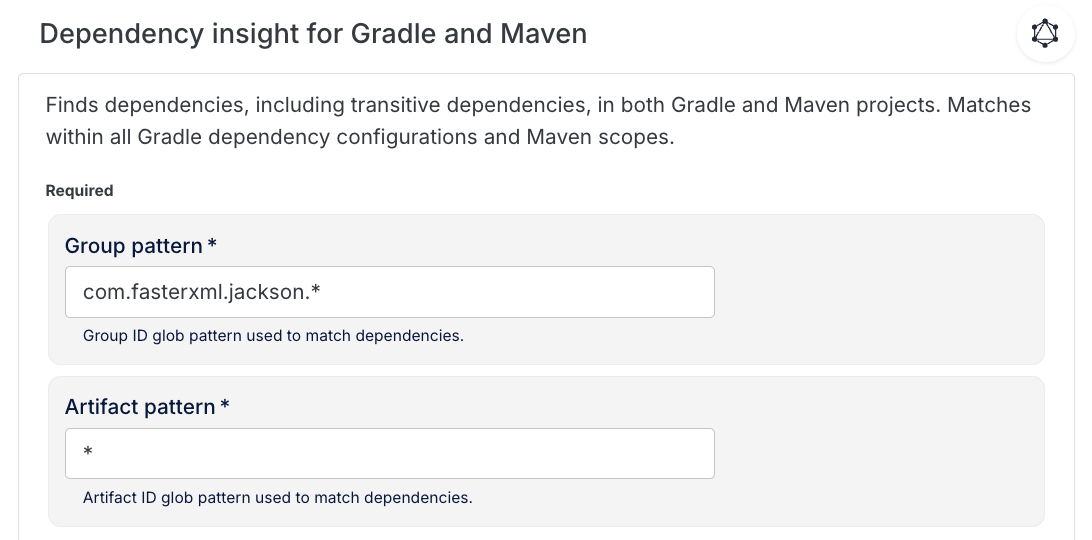
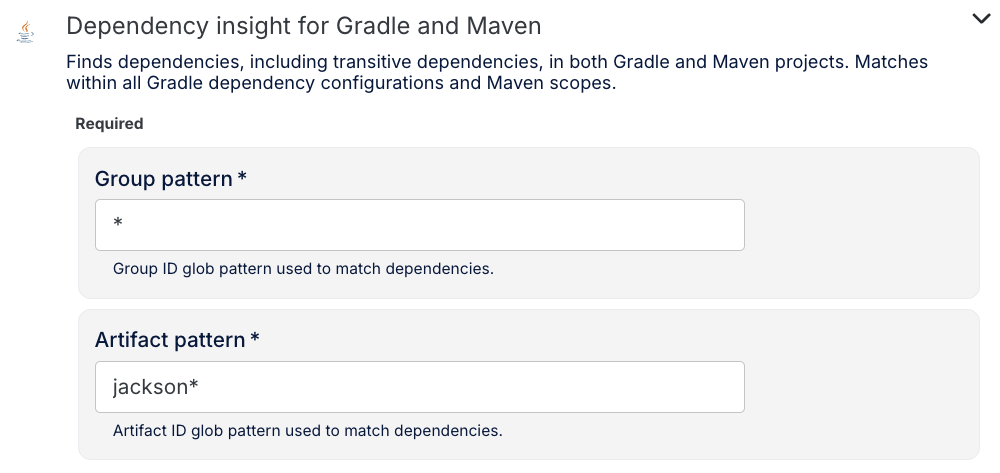
Tim's feedback

diff --git a/docs/hands-on-learning/fundamentals/workshop-overview.md b/docs/hands-on-learning/fundamentals/workshop-overview.md
@@ -3,22 +3,27 @@ sidebar_label: Workshop overview
 description: A high-level overview of what this workshop will entail.
 ---
 
-# Overview: Fundamentals of recipe development workshop
+# Overview: Fundamentals of OpenRewrite recipe development
 
-This workshop builds on the foundations covered in the [Introduction to OpenRewrite](../introduction/workshop-overview) workshop and focuses on OpenRewrite recipe authorship and testing.
+This workshop is designed to help you learn how to write your own custom [OpenRewrite](https://docs.openrewrite.org/) recipes. While Moderne and OpenRewrite offer thousands of ready-to-use recipes, sometimes you need to write custom recipes for your organization's specific needs.
 
-You will gain experience writing custom recipes, which can be written in [YAML](https://docs.openrewrite.org/concepts-and-explanations/recipes#declarative-recipes), [Refaster](https://docs.openrewrite.org/authoring-recipes/refaster-recipes), or [imperative Java](https://docs.openrewrite.org/concepts-and-explanations/recipes#imperative-recipes). Throughout this workshop, you'll explore all three approaches, as well as how to test and validate recipe behavior so you can gain confidence developing recipes that apply safe, scalable changes across your codebase. This workshop is designed to be hands-on, so you can follow along with the examples in your own environment. The workshop consists of a series of modules that highlight key concepts, each with one or more exercises to help you practice what you've learned. 
+You will gain experience writing recipes using three different approaches: [declarative YAML](https://docs.openrewrite.org/concepts-and-explanations/recipes#declarative-recipes), [Refaster templates](https://docs.openrewrite.org/authoring-recipes/refaster-recipes), and [imperative recipes](https://docs.openrewrite.org/concepts-and-explanations/recipes#imperative-recipes). This workshop is designed to be hands-on, so you can follow along with the examples in your own environment. The workshop consists of a series of modules that highlight key concepts, each with one or more exercises to help you practice what you've learned.
 
 Be sure to also follow the links to the [OpenRewrite documentation](https://docs.openrewrite.org/) for more in-depth information. Feel free to skip around to the sections that interest you most, based on your needs and experience level.
 
 If you get stuck or have questions, feel free to ask in the [OpenRewrite Slack](https://join.slack.com/t/rewriteoss/shared_invite/zt-nj42n3ea-b~62rIHzb3Vo0E1APKCXEA) or [Discord](https://discord.gg/xk3ZKrhWAb).
 
+:::info
+This workshop is Java-focused, but the core authoring concepts apply more broadly. OpenRewrite also supports JavaScript and TypeScript recipes, with guides on [writing a JavaScript refactoring recipe](https://docs.openrewrite.org/authoring-recipes/writing-a-javascript-refactoring-recipe), setting up the [JavaScript recipe development environment](https://docs.openrewrite.org/authoring-recipes/javascript-recipe-development-environment), and exploring [JavaScript LST examples](https://docs.openrewrite.org/concepts-and-explanations/javascript-lst-examples).
+:::
+
 ## What you'll learn
 
-* Scoping recipes using preconditions
-* Testing and validating recipe logic
-* Using Refaster for pattern-based Java transformations
-* How to write and run imperative Java-based recipes
+* How to set up your development environment for recipe authorship
+* Writing declarative YAML recipes with preconditions
+* Creating Refaster template recipes for pattern-based transformations
+* Building imperative Java recipes for complex transformations
+* Testing and validating recipe behavior
 
 ## Prerequisites
 
@@ -27,4 +32,32 @@ To get the most out of this workshop, you should at least be familiar with:
 * Writing Java code
 * Using build tools like Maven or Gradle
 
-If you haven’t been through the [Introduction to OpenRewrite](../introduction/workshop-overview) workshop yet, we recommend completing it first before returning here.
+If you haven't been through the [Introduction to OpenRewrite](../introduction/workshop-overview.md) workshop yet, we recommend completing it first to understand the fundamentals of how OpenRewrite works and how to run recipes.
+
+## Pre-work
+
+Before attending this workshop, please complete the following:
+
+* Install JDK 21 (required for recipe development)
+  * The [`rewrite-recipe-starter`](https://github.com/moderneinc/rewrite-recipe-starter) project expects JDK 21
+  * You can use Temurin JDK 21.0.7 or another JDK 21 distribution
+* Fork or clone the [`rewrite-recipe-starter`](https://github.com/moderneinc/rewrite-recipe-starter) repository
+* _(Optionally)_ Edit the `build.gradle.kts` to set a unique groupId, such as `com.github.yourusername`
+* _(Optionally)_ Join the [OpenRewrite Slack](https://join.slack.com/t/rewriteoss/shared_invite/zt-nj42n3ea-b~62rIHzb3Vo0E1APKCXEA) for communication with the instructor and pre-work support
+
+## Types of recipes
+
+There are three main types of recipes, each with their own trade-offs:
+
+1. **Declarative recipes** - Written in YAML, these combine existing recipes with configuration. They're the simplest to write and are very common.
+2. **Refaster template recipes** - Written in Java using `@BeforeTemplate` and `@AfterTemplate` annotations. Good for straightforward expression and statement replacements with compiler support.
+3. **Imperative recipes** - Written entirely in Java, these offer the most power and flexibility. Use them when the other types can't handle your use case.
+
+This workshop will cover all three types in depth.
+
+## Workshop modules
+
+* [Module 1: Environment setup](./module-1-environment-setup.md) - Set up your IDE and verify your development environment
+* [Module 2: Declarative recipes and preconditions](./module-2-declarative-recipes.md) - Write YAML recipes and scope them with preconditions
+* [Module 3: Refaster recipes](./module-3-refaster-recipes.md) - Create pattern-based transformations using Refaster templates
+* [Module 4: Imperative recipes and testing](./module-4-imperative-recipes.md) - Build complex recipes in Java and write comprehensive tests

diff --git a/docs/hands-on-learning/advanced/workshop-overview.md b/docs/hands-on-learning/advanced/workshop-overview.md
@@ -11,7 +11,7 @@ You will gain experience with advanced recipe development tooling, understand ho
 
 Be sure to also follow the links to the [OpenRewrite documentation](https://docs.openrewrite.org/) for more in-depth information. Feel free to skip around to the sections that interest you most, based on your needs and experience level.
 
-If you get stuck or have questions, feel free to ask in the [OpenRewrite Slack](https://join.slack.com/t/rewriteoss/shared_invite/zt*nj42n3ea*b\~62rIHzb3Vo0E1APKCXEA) or [Discord](https://discord.gg/xk3ZKrhWAb).
+If you get stuck or have questions, feel free to ask in the [OpenRewrite Slack](https://join.slack.com/t/rewriteoss/shared_invite/zt-nj42n3ea-b\~62rIHzb3Vo0E1APKCXEA) or [Discord](https://discord.gg/xk3ZKrhWAb).
 
 ## What You'll Learn
 

diff --git a/docs/hands-on-learning/introduction/module-3-data-tables-visualizations.md b/docs/hands-on-learning/introduction/module-3-data-tables-visualizations.md
@@ -310,8 +310,8 @@ In this exercise, you'll run recipes in the Moderne Platform and use the `Data T
 2. Make sure the Default organization is still selected.
 3. From the Marketplace, search for and select `Dependency insight for Gradle and Maven`.
 4. Configure the options using a broad pattern to get results across many repositories:
-   * **Group pattern:** `com.fasterxml.jackson.*`
-   * **Artifact pattern:** `*`
+   * **Group pattern:** `*`
+   * **Artifact pattern:** `jackson*`
    * You can leave all of the other options blank/default.
 
 <figure>
